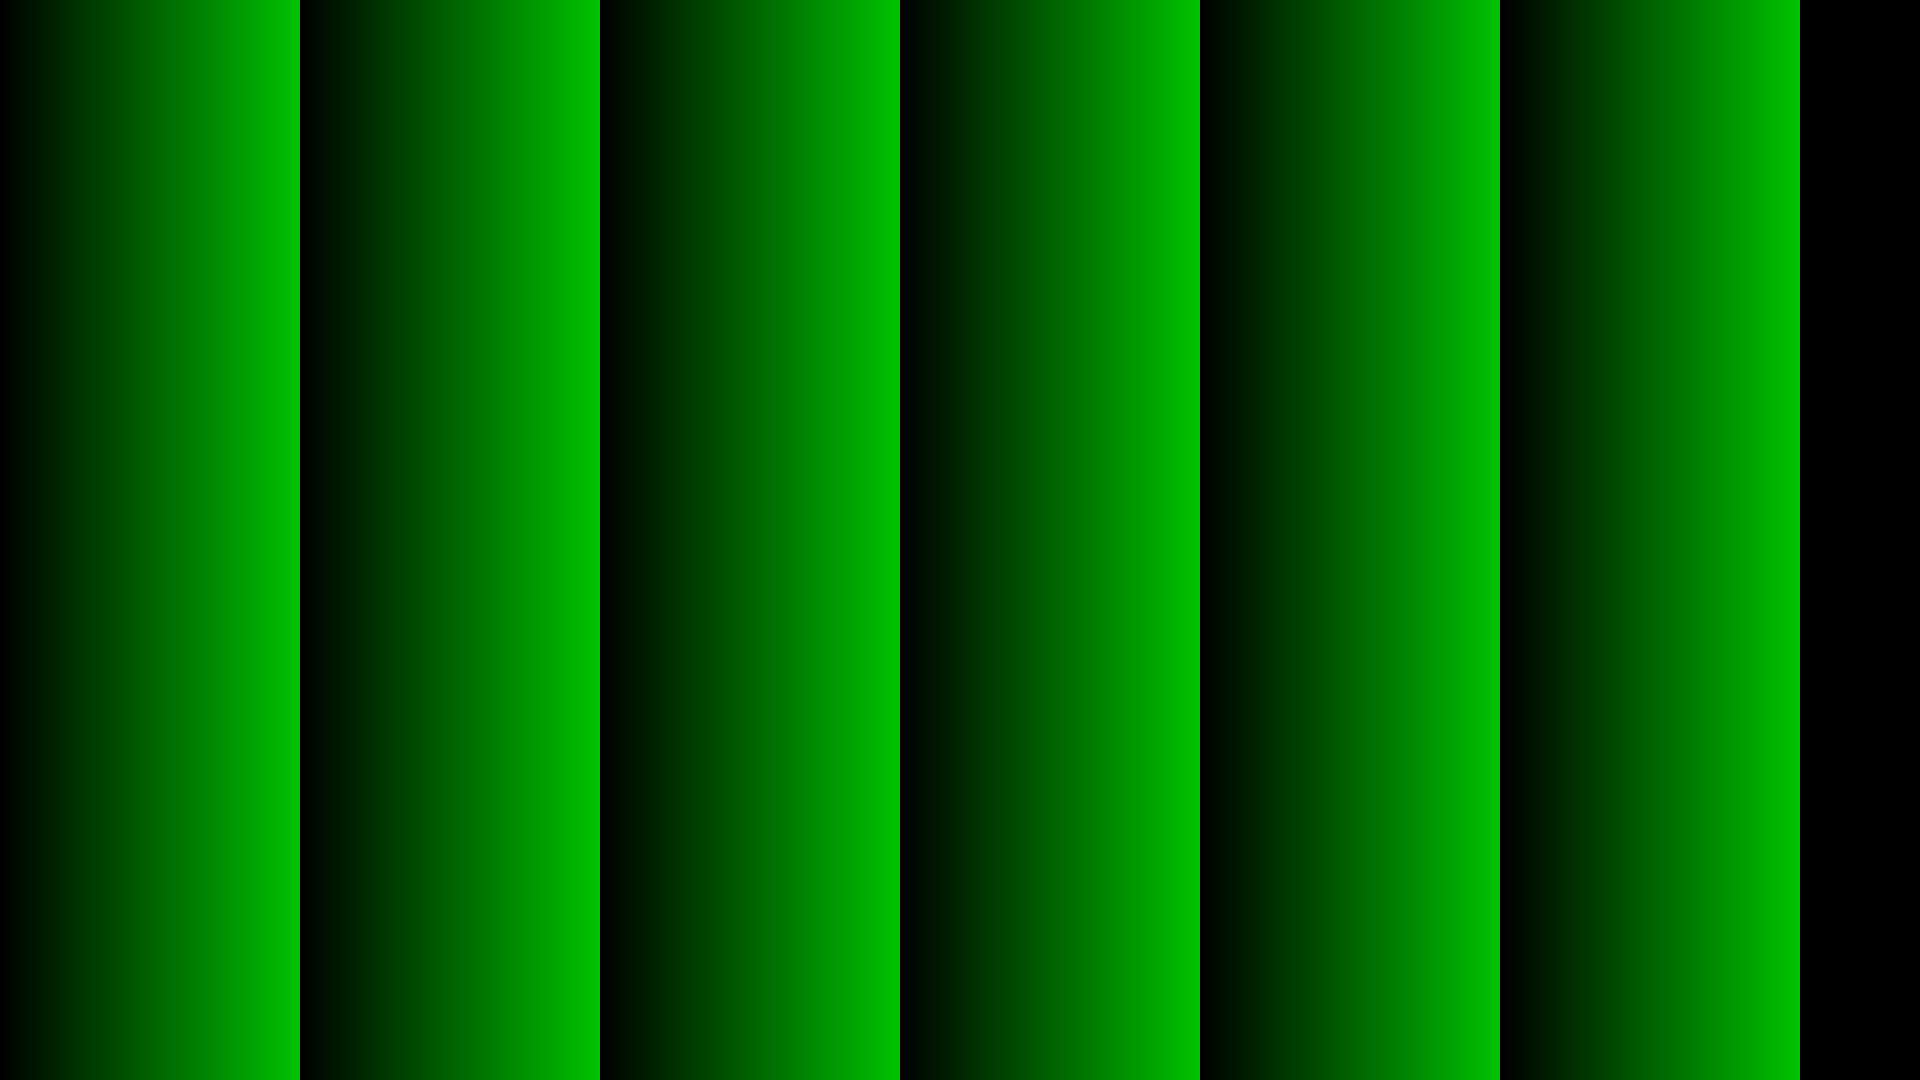
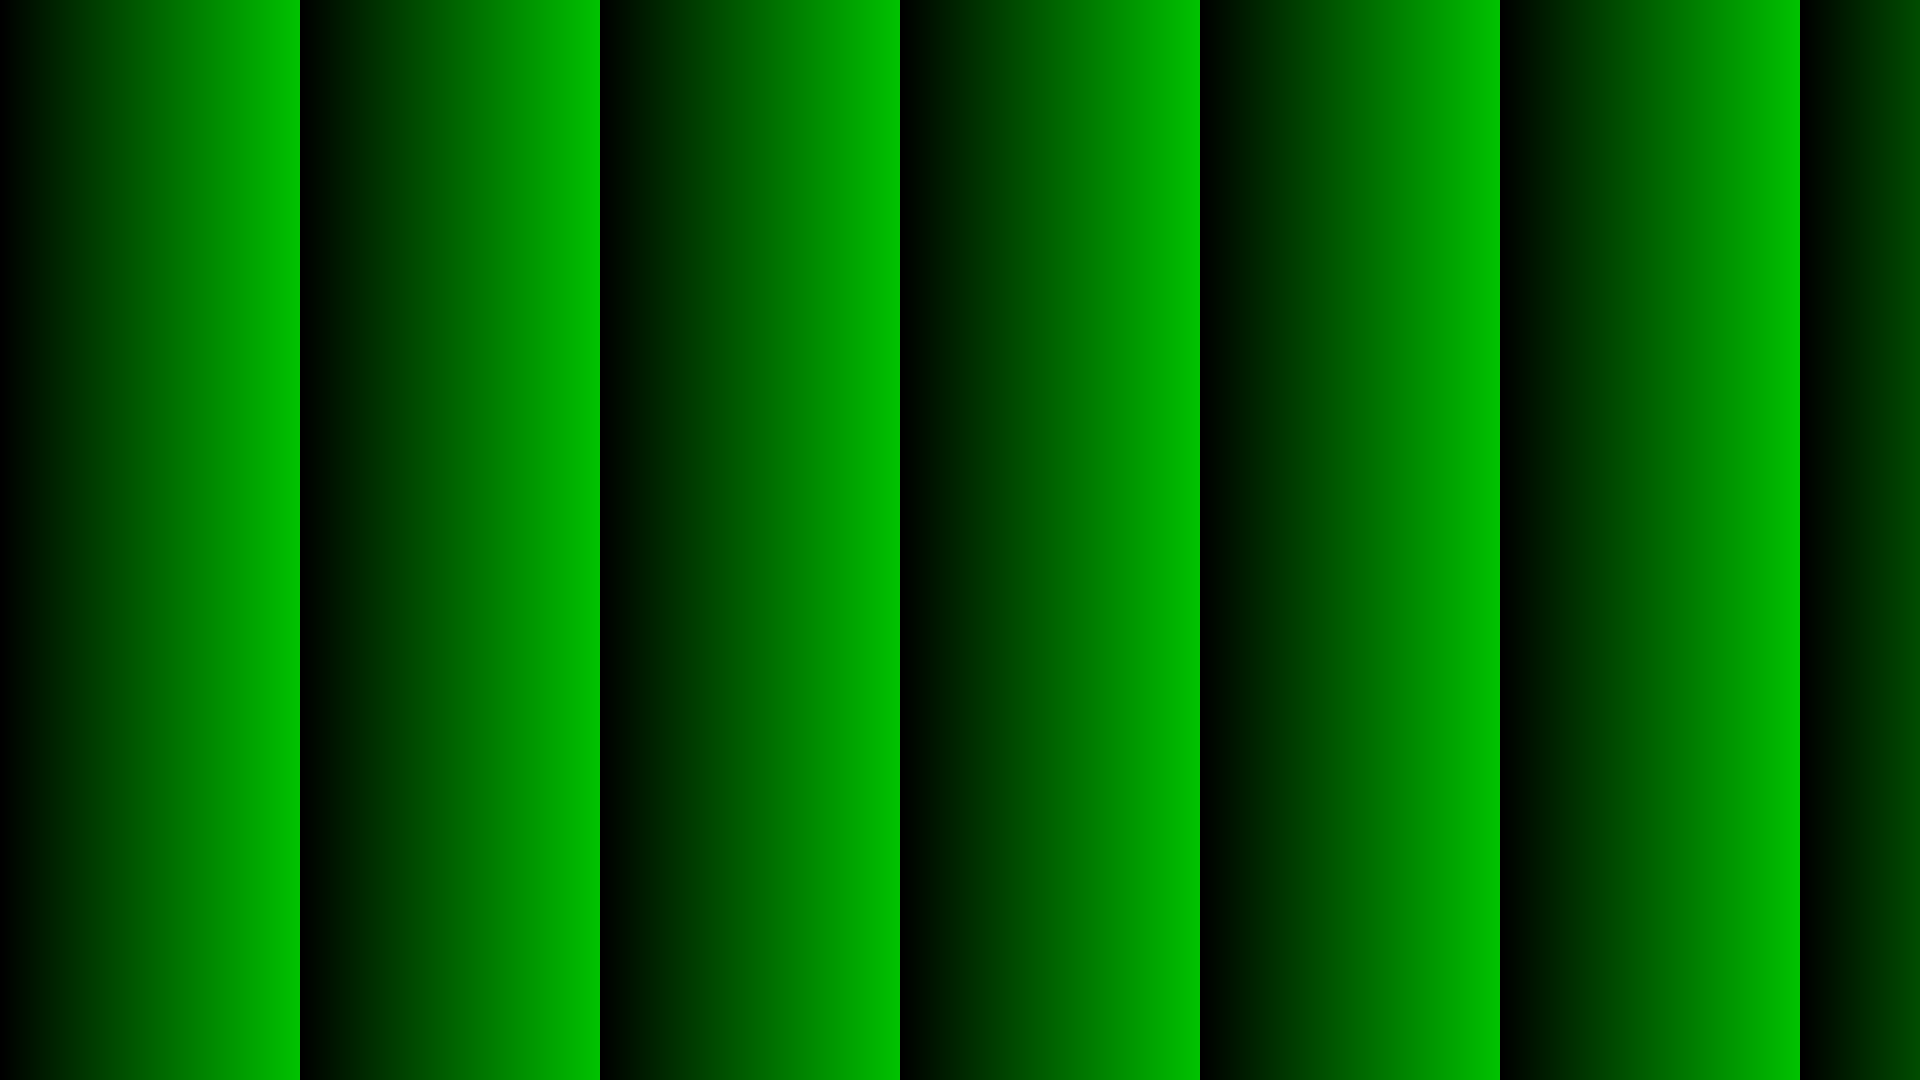
little change

Changed region(s): [[0.9375, 0.0, 1.0, 1.0]]

diff --git a/Merge_R_blybi.py b/Merge_R_blybi.py
@@ -9,11 +9,11 @@ from PIL import Image
 import numpy as np
 import matplotlib.pyplot as plt
 
-im_rh=plt.imread("C:/Users/Laboratorio/MakeHologram/R(blazed)_p200.png")
+im_rh=plt.imread("C:/Users/Laboratorio/MakeHologram/tri_blue is center/R(blazed)_p200.png")
 # im_gh=plt.imread("Green(H)_p54.png")
-im_bh=plt.imread("C:/Users/Laboratorio/MakeHologram/R(blazed)V_p400.png")
+im_bh=plt.imread("C:/Users/Laboratorio/MakeHologram/tri_blue is center/R(blazed)V_p400.png")
 
-im_rb=plt.imread("C:/Users/Laboratorio/MakeHologram/tri/R_tri_92(V)_p70.png")
+im_rb=plt.imread("C:/Users/Laboratorio/MakeHologram/tri_blue is center/R_tri_92(V)_p48.png")
 # im_gray=plt.imread("Gray(V)_p64.png")
 im_rh_array = np.array(im_rh)*255
 im_bh_array = np.array(im_bh)*255
@@ -33,7 +33,7 @@ im_new_array = im_new_array.astype(np.uint8)
 
 im_new = Image.fromarray(im_new_array)
 # im_compare=Image.fromarray(im_mod)
-im_new.save('R_bl2_p200.png')
+im_new.save('GrayR_bl2_p200.png')
 
 # plt.imshow(im_new_array)
 im_new.show()
@@ -49,6 +49,6 @@ im_new_arr_3[:,:,0] = im_int_3
 im_new_arr_3=im_new_arr_3.astype(np.uint8)
 
 im_new_3 = Image.fromarray(im_new_arr_3)
-im_new_3.save('R_bl2_bi_tri_p200.png')
+im_new_3.save('GrayR_bl2_bi_tri_p200.png')
 
 im_new_3.show()

diff --git a/Merge_RB_gray.py b/Merge_RB_gray.py
@@ -9,9 +9,9 @@ from PIL import Image
 import numpy as np
 import matplotlib.pyplot as plt
 
-im_rh=plt.imread("C:/Users/Laboratorio/MakeHologram/GrayR_bl2_bi_tri.png")
+im_rh=plt.imread("C:/Users/Laboratorio/MakeHologram/tri_blue is center/GrayR_bl2_bi_tri_p200.png")
 
-im_gh=plt.imread("C:/Users/Laboratorio/MakeHologram/GrayG_bl300_mod_tri.png")
+im_gh=plt.imread("C:/Users/Laboratorio/MakeHologram/GrayG_bl2_tri_p300.png")
 im_bh=plt.imread("C:/Users/Laboratorio/MakeHologram/tri/B_tri_112(V)_p48.png")
 
 im_rh_array = np.array(im_rh)*255
@@ -32,6 +32,6 @@ im_new_array = im_int
 im_new_array = im_new_array.astype(np.uint8)
 
 im_new = Image.fromarray(im_new_array)
-im_new.save('gray_bl2_tri_rgbSeperate255.png')
+im_new.save('gray_bl2_tri_SeperateNew.png')
 
 im_new.show()

diff --git a/Merge_RGB_Bi_ch.py b/Merge_RGB_Bi_ch.py
@@ -9,7 +9,7 @@ from PIL import Image
 import numpy as np
 import matplotlib.pyplot as plt
 
-im_rh=plt.imread("C:/Users/Laboratorio/MakeHologram/R_bl2_bi_tri_p200.png")
+im_rh=plt.imread("C:/Users/Laboratorio/MakeHologram/tri_blue is center/R_bl2_bi_tri_p200.png")
 im_gh=plt.imread("C:/Users/Laboratorio/MakeHologram/G_bl2_tri_p300.png")
 im_bh=plt.imread("C:/Users/Laboratorio/MakeHologram/tri/B_tri_112(V)_p48.png")
 # im_gray=plt.imread("Gray(V)_p64.png")
@@ -28,7 +28,7 @@ im_new_array[:,:,2] = im_bh_array[:,:,2]
 im_new_array = im_new_array.astype(np.uint8)
 
 im_new = Image.fromarray(im_new_array)
-im_new.save('RGB_bl2_V_tri_s_new.png')
+im_new.save('RGB_bl2_V_tri_s_newgreen.png')
 
 
 im_new.show()

diff --git a/Merge_G_blybi.py b/Merge_G_blybi.py
@@ -9,9 +9,9 @@ from PIL import Image
 import numpy as np
 import matplotlib.pyplot as plt
 
-im_rh=plt.imread("C:/Users/Laboratorio/MakeHologram/G(blazed)_p300.png")
+im_rh=plt.imread("C:/Users/Laboratorio/MakeHologram/tri_blue is center/G(blazed)_p300.png")
 # im_gh=plt.imread("Green(H)_p54.png")
-im_bh=plt.imread("C:/Users/Laboratorio/MakeHologram/G(blazed)V_p600.png")
+im_bh=plt.imread("C:/Users/Laboratorio/MakeHologram/tri_blue is center/G(blazed)V_p600.png")
 
 im_rb=plt.imread("C:/Users/Laboratorio/MakeHologram/tri/Green_tri_140(V)_p54.png")
 # im_gray=plt.imread("Gray(V)_p64.png")

diff --git a/DH_G_blazed.py b/DH_G_blazed.py
@@ -82,7 +82,7 @@ else:
         i2=0
         while i2 < reminder-1:
           
-            pixels_h[i2+1+(round(loop)-1)*stripe_width,x1]=(0,int((i2)* interval),0) 
+            pixels_h[i2+1+(round(loop))*stripe_width,x1]=(0,int((i2)* interval),0) 
             # print(i2+1+(round(loop)-1)*stripe_width)
             i2+=1
     im_blank_h.save(f"{file_n}(blazed)_p{stripe_width}.png")
